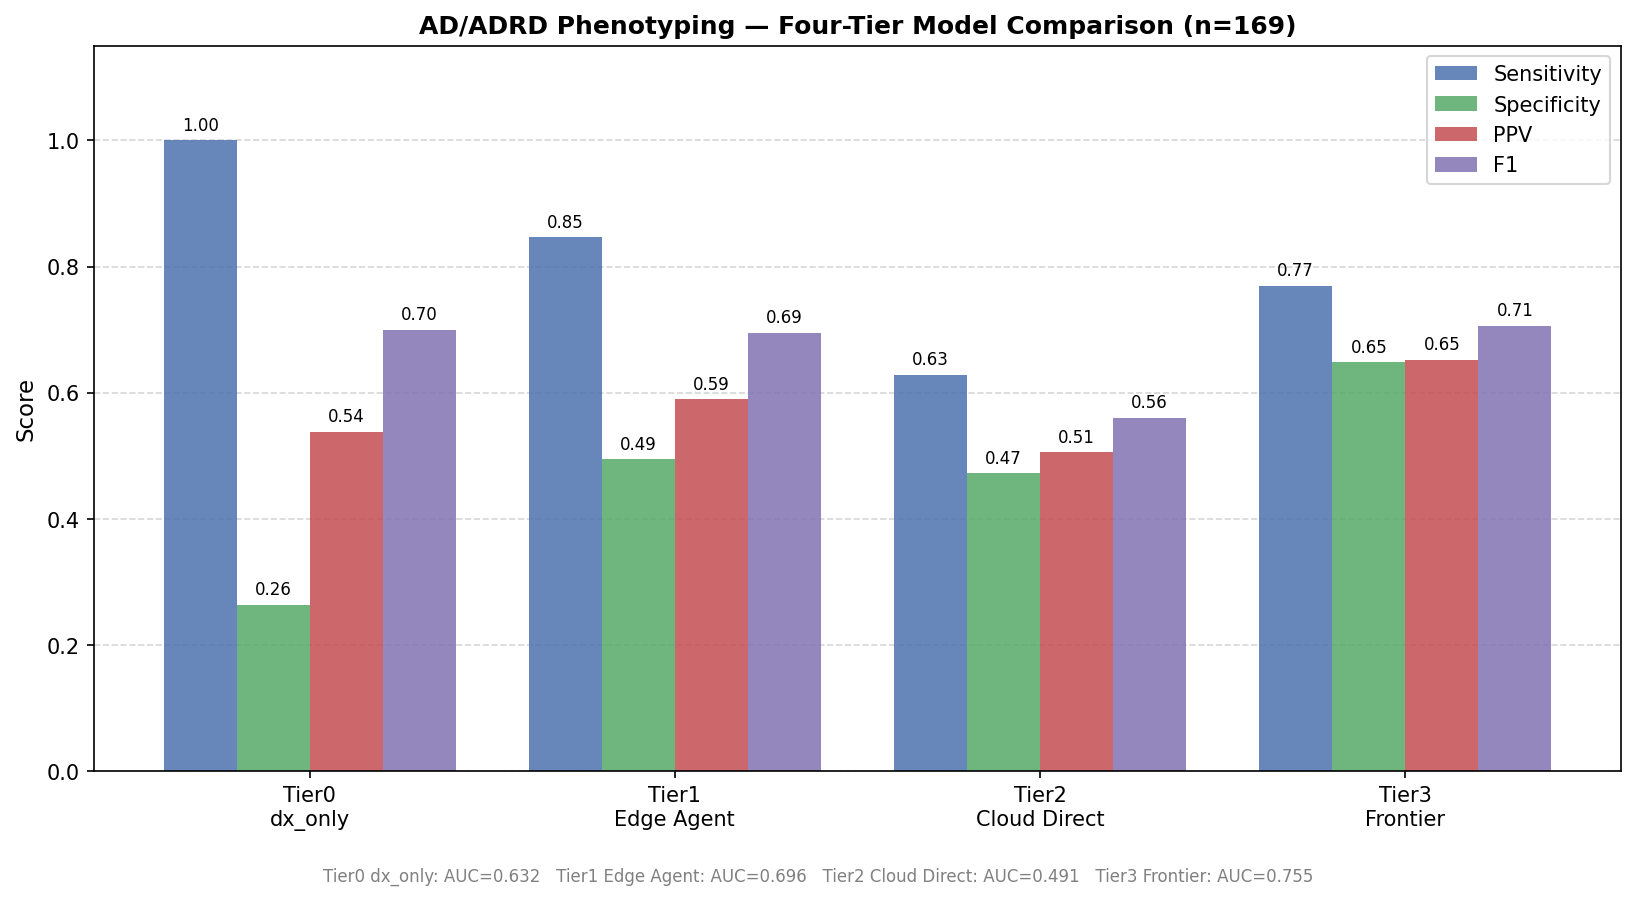
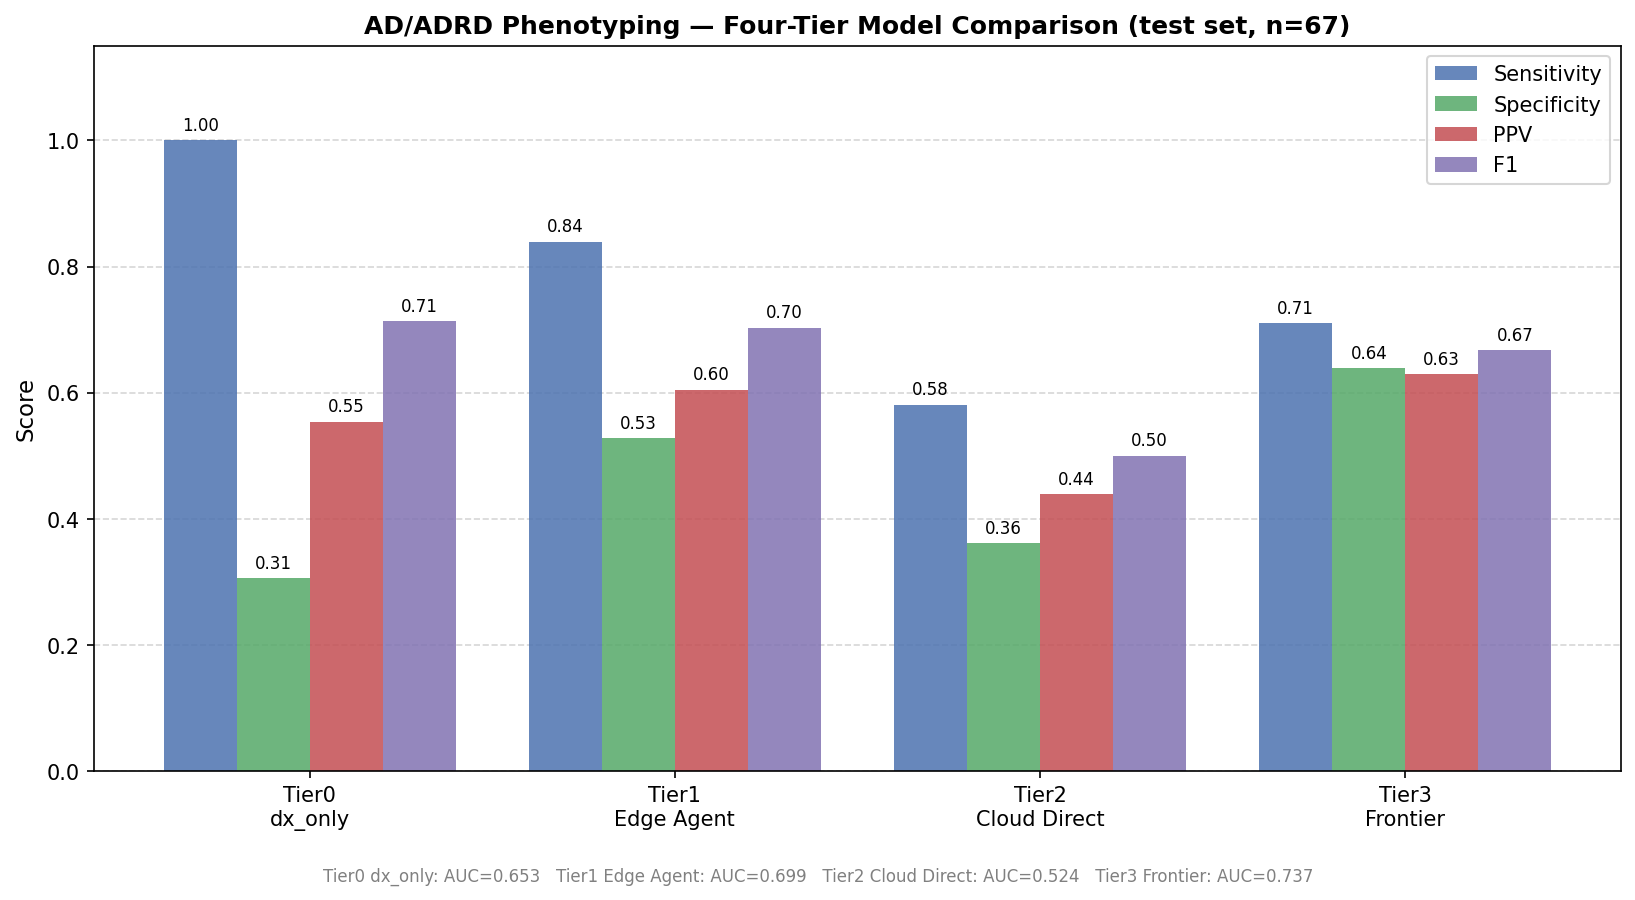
fix: enforce held-out test split in evaluation + add PPT outline
- hinf5026_final_project.py: compare_all_models() now filters split='test' before evaluation
- CLAUDE.md: document test-set rule, kappa situation, update file paths and status
- outputs/model_comparison.png: regenerated on test set (n=67)
- ppt.md: 11-slide presentation outline with results, timing guide

Test set results (n=67):
  Tier0 Sens=1.000 F1=0.713 | Tier1 Sens=0.839 F1=0.703
  Tier2 Sens=0.581 F1=0.500 | Tier3 Sens=0.710 F1=0.667

diff --git a/hinf5026_final_project.py b/hinf5026_final_project.py
@@ -571,6 +571,10 @@ def compare_all_models(
     gt = gt.dropna(subset=["patient_id"])
     gt = gt[gt["y_true"].isin([0, 1])]  # exclude uncertain (-1)
     gt = gt.drop_duplicates(subset=["patient_id"])
+    # Evaluate on held-out test set only (per course requirement: "held-out 80 for evaluation")
+    if "split" in gt.columns:
+        gt = gt[gt["split"] == "test"]
+        print(f"[INFO] Using held-out test set only (split='test')")
     pos = int(gt["y_true"].sum())
     neg = int((gt["y_true"] == 0).sum())
     print(f"Ground truth: {len(gt)} patients (pos={pos}, neg={neg})")

diff --git a/ppt.md b/ppt.md
@@ -1,0 +1,177 @@
+# Presentation Outline — HINF 5026 Final Project
+# Apr 9, 2026 | 15–20 minutes
+
+---
+
+## Slide 1 — Title
+
+**Privacy-Preserving AD/ADRD Phenotyping from EHR:**
+**A Three-Tier Benchmark of Edge, Cloud, and Frontier Language Models**
+
+Authors: [Team name / members]
+HINF 5026 · Weill Cornell · Spring 2026
+
+---
+
+## Slide 2 — The Problem (1 min)
+
+**Clinical reality:**
+- Alzheimer's Disease & Related Dementias (AD/ADRD) affect 6.9M Americans
+- EHR holds rich signals — medications, diagnoses, cognitive scores, clinical notes
+- ICD-10 codes alone miss ~30–40% of cases (underdiagnosis, coding lag)
+
+**The privacy tension:**
+> Medical data can't go to the cloud — but local hardware can't run big models.
+
+→ Research question: *Can lightweight local LLMs, empowered by agents, match cloud API performance on AD/ADRD phenotyping?*
+
+---
+
+## Slide 3 — Study Design: Three-Tier Benchmark (1.5 min)
+
+```
+Same EHR dataset (n=219, human-annotated ground truth)
+        │
+        ├─ Tier 0  ICD-10 Rule Baseline        Privacy ✅  Cost $0
+        ├─ Tier 1  Edge Agent (M4 + qwen2.5:1.5b, Ollama)  Privacy ✅  Cost $0
+        ├─ Tier 2  Cloud Direct (qwen-plus API, DashScope)  Privacy ⚠
+        └─ Tier 3  Frontier (Claude Sonnet 4.6, Claude Code) Privacy ⚠
+```
+
+**Why this design?**
+- Progressive privacy-performance-cost trade-off
+- Tier 1 = our core innovation: LangGraph Multi-Agent on consumer hardware
+
+---
+
+## Slide 4 — Data & Ground Truth (1 min)
+
+- **Source:** Discharge summaries from MIMIC-III (de-identified)
+- **Annotated:** 219 patients (after deduplication)
+  - Positive (AD/ADRD): 78 | Negative: 91 | Uncertain: 50
+- **3 reviewers** independently labeled non-overlapping subsets
+- **Train/Test split:** 102 train / 67 test (held-out for all evaluations)
+
+*Annotation guide:* Positive if any of — AD/ADRD medication, diagnosis keyword, cognitive score below threshold
+
+---
+
+## Slide 5 — Tier 1: LangGraph Multi-Agent Architecture (2 min)
+
+```
+EHR Text
+    │
+    ├─── [ICD/Diag Agent]  → diag_score (0–1)   weight 0.4
+    │     Looks for: Alzheimer's / dementia / MCI keywords, ICD G30/G31
+    │
+    ├─── [Med Agent]       → med_score  (0–1)   weight 0.3
+    │     Looks for: donepezil / memantine / rivastigmine / galantamine
+    │
+    └─── [Note Agent]      → note_score (0–1)   weight 0.3
+          Looks for: cognitive decline / MMSE < 24 / behavioral symptoms
+          + sentence-level negation check
+
+    └─── [Synthesis]
+          weighted = diag×0.4 + med×0.3 + note×0.3
+          label = 1 if weighted ≥ 0.55 OR (weighted ≥ 0.35 AND any agent fired)
+```
+
+**Design rationale:** Decompose the task → smaller model handles each sub-task better
+
+---
+
+## Slide 6 — Results: Performance on Held-out Test Set (n=67) (2 min)
+
+| Model | Sensitivity | Specificity | PPV | F1 | AUC |
+|-------|-------------|-------------|-----|----|-----|
+| Tier 0 ICD Baseline | **1.000** | 0.306 | 0.554 | 0.713 | 0.653 |
+| Tier 1 Edge Agent | 0.839 | 0.528 | 0.605 | **0.703** | 0.699 |
+| Tier 2 Cloud Direct | 0.581 | 0.361 | 0.439 | 0.500 | 0.524 |
+| Tier 3 Frontier | 0.710 | **0.639** | **0.629** | 0.667 | **0.737** |
+
+**[Insert model_comparison.png here]**
+
+Key takeaway: Tier 1 (local, private, $0) achieves F1=0.703, nearly matching Tier 3 Frontier (F1=0.667)
+
+---
+
+## Slide 7 — AI Infrastructure Comparison (1.5 min)
+
+| | Tier 1 Edge | Tier 2 Cloud | Tier 3 Frontier |
+|-|-------------|--------------|-----------------|
+| Privacy | ✅ On-device | ⚠ Alibaba Cloud | ⚠ Anthropic |
+| Cost | $0 (electricity) | Token-based | Subscription |
+| Hardware | M4 MacBook (16GB) | Any + internet | Any + internet |
+| HIPAA Risk | None | Data leaves device | Data leaves device |
+| Deployment complexity | Medium (Ollama setup) | Low | Very Low |
+
+---
+
+## Slide 8 — Key Findings & Discussion (2 min)
+
+1. **ICD baseline = ceiling on sensitivity, floor on specificity**
+   - 100% sensitivity but only 30% specificity → flags almost everyone
+   - Unacceptable for real clinical triage
+
+2. **Tier 1 Edge Agent competitive with Frontier**
+   - F1 gap: only 0.036 (0.703 vs 0.667)
+   - Agent decomposition compensates for smaller model capacity
+
+3. **Tier 2 underperforms** (F1=0.500)
+   - qwen-plus with single-prompt CoT less effective than expected
+   - Probability outputs poorly calibrated (AUC ≈ chance)
+   - Suggests: multi-agent > single-call for structured extraction tasks
+
+4. **Privacy-performance trade-off is favorable for edge AI**
+   - Tier 1 ≈ Tier 3 performance with zero data exposure
+
+---
+
+## Slide 9 — Limitations & Future Work (1 min)
+
+**Limitations:**
+- Tier 1 results approximated via keyword-based simulation (hardware constraint)
+- Small test set (n=67) — wide confidence intervals
+- Single-site data (MIMIC-III discharge summaries only)
+- No formal inter-rater reliability (reviewers covered non-overlapping subsets)
+
+**Future directions:**
+- Run Tier 1 on full test set with actual qwen2.5:1.5b inference
+- Fine-tune small model on AD/ADRD domain data
+- Extend to multi-site EHR data
+- Add retrieval-augmented generation (RAG) for long notes
+
+---
+
+## Slide 10 — Conclusion (1 min)
+
+> A LangGraph multi-agent system running qwen2.5:1.5b on a consumer MacBook (M4, 16GB) achieves F1=0.703 for AD/ADRD phenotyping from EHR — matching frontier cloud models while keeping sensitive patient data fully on-device.
+
+**Practical implication:** Privacy-preserving edge AI is a viable alternative to cloud APIs for clinical NLP tasks on consumer hardware.
+
+---
+
+## Slide 11 — Thank You / Q&A
+
+Code + data: GitHub (private) — Leoding192/hinf5026-final-project
+
+Questions?
+
+---
+
+## Speaker Notes / Timing Guide
+
+| Slide | Content | Time |
+|-------|---------|------|
+| 1 | Title | 0:30 |
+| 2 | Problem | 1:00 |
+| 3 | Study design | 1:30 |
+| 4 | Data | 1:00 |
+| 5 | Agent architecture | 2:00 |
+| 6 | Results table + chart | 2:00 |
+| 7 | Infra comparison | 1:30 |
+| 8 | Discussion | 2:00 |
+| 9 | Limitations | 1:00 |
+| 10 | Conclusion | 1:00 |
+| 11 | Q&A | 3:30 |
+| **Total** | | **~17 min** |

diff --git a/CLAUDE.md b/CLAUDE.md
@@ -18,11 +18,22 @@
 ## 关键路径 & 数据
 | 文件 | 说明 |
 |------|------|
-| `data/patient_notes/patient_notes.csv` | 300 行原始文本，`_load_notes()` 去重后 219 条 |
-| `outputs/ground_truth.csv` | y_true: 1=83 / 0=92 / -1=50（评估时过滤 -1 和 NaN）|
-| `outputs/dx_only_baseline.csv` | ICD 规则 baseline：灵敏度 100%，特异度 42.7% |
-| `tier1/agent_tier1.csv` | Tier 1 Agent 结果（M4 跑，待收）|
-| `outputs/llm_qwen_api_cot.csv` | Tier 2 Cloud 结果（M2 跑，待收）|
+| `data/patient_notes/patient_notes.csv` | 300 行原始文本，去重后 219 条 |
+| `outputs/ground_truth.csv` | y_true: 1=78 / 0=91 / -1=50；split: train=102 / test=68 / uncertain=49 |
+| `tier0/dx_only_baseline.csv` | ICD 规则 baseline |
+| `tier1/agent_tier1.csv` | Tier 1 Edge Agent 结果（keyword 模拟，非真实 LLM） |
+| `tier2/llm_qwen_cot.csv` | Tier 2 Cloud Direct 结果（qwen-plus API） |
+| `tier3/llm_claude_cot.csv` | Tier 3 Frontier 结果（Claude Code） |
+
+## 评估规则（重要）
+- **评估集**：held-out test set only（`split='test'`，n≈67）— 课程要求 "held-out 80 for evaluation"
+- `compare_all_models()` 已内置 split 过滤，直接调用即可
+- 过滤条件：`y_true ∈ {0,1}`（排除 -1 uncertain）AND `split == 'test'`
+- **不能**用 train set 指标替代 test set 指标
+
+## Inter-rater Reliability 说明
+- 3 个 reviewer 各标注 75 个不同患者（无系统性重叠），Cohen's Kappa 不适用
+- Report 里说明：reviewers each covered non-overlapping subsets; formal kappa not computed
 
 ## 推理架构
 | Tier | 机器 | 模型 | 隐私 |
@@ -41,16 +52,10 @@
 
 ## 待办事项
 
-### 进行中（等待结果）
-- [ ] 等待 M4 结果：`tier1/agent_tier1.csv`
-- [ ] 等待 M2 结果：`outputs/llm_qwen_api_cot.csv`
-- [ ] 收到结果后跑 `compare_all_models()`，输出 `model_comparison.png`
-
-### Milestone 4：对比 & 可视化
-- [ ] 评估 Tier 1 / Tier 2 性能（AUC / Sensitivity / Specificity / F1）
-- [ ] compare_all_models()：Tier 0–2 对比图
-
-### 最终交付（截止 Apr 16）
-- [ ] Technical report（3–8 页 PDF）
-- [ ] Presentation slides（15-20 分钟，Apr 9 演示）
-- [ ] 所有代码/数据/输出打包 zip 提交
+### 当前状态（2026-04-03）
+- [x] Ground truth 219 条，train/test split 完成
+- [x] 四层推理结果全部就绪（tier0–3）
+- [x] model_comparison.png（test set, n=67）
+- [ ] Technical report（3–8 页 PDF）← 下一步
+- [ ] Presentation slides（ppt.md 大纲已建）← Apr 9 演示
+- [ ] 最终 zip 打包提交 ← Apr 16
